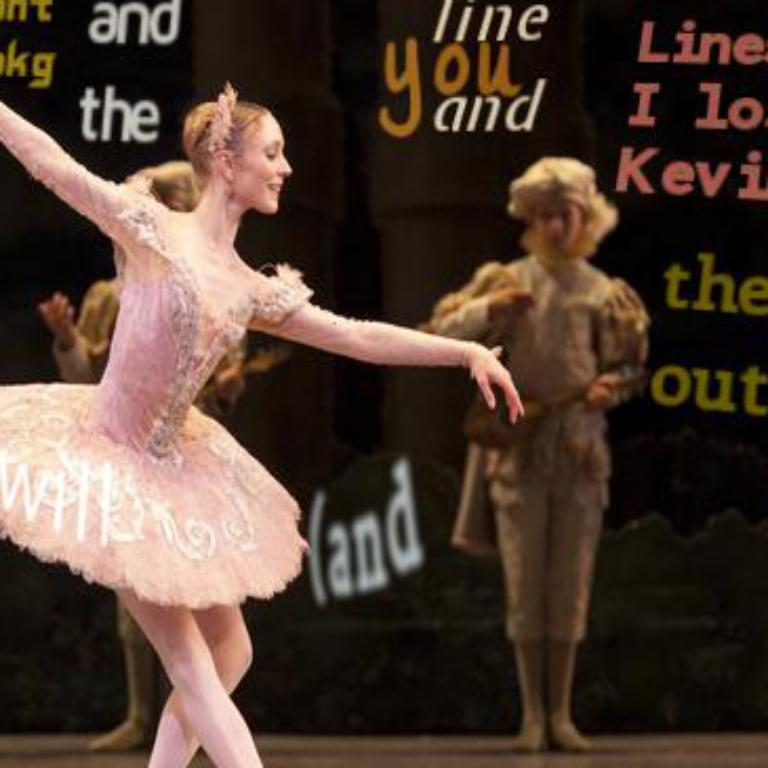
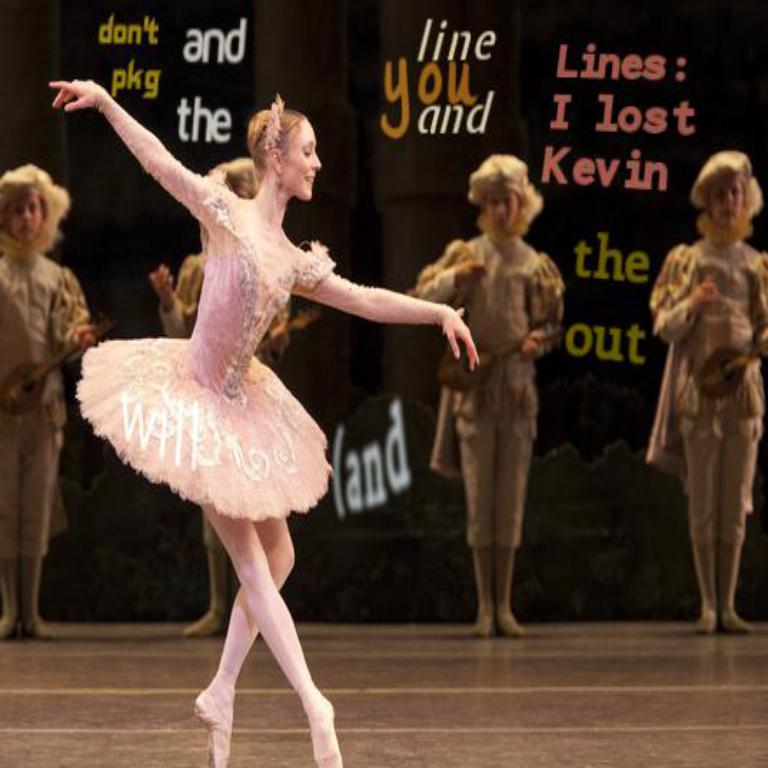
Augmentation

diff --git a/data_loader_sample.py b/data_loader_sample.py
@@ -60,13 +60,19 @@ class ToTensor(object):
 
 class RandomCrop(object): 
 
-    def __init__(self, scale=0.2):
-
+    def __init__(self, scale=0.2, p=0.6):
+        
+        #crop 비율
         self.scale = scale
+        #crop할 확률 
+        self.p =p
 
     def __call__(self, gt): 
 
         image, region_score, affinity_score = gt 
+
+        if random.random() > self.p: 
+            return image, region_score, affinity_score
 
         rand1 = random.random()*self.scale
         rand2 = random.random()*self.scale
@@ -85,13 +91,34 @@ class RandomCrop(object):
 
 class Resize(object): 
 
-    def __init__(self, target_size=768):
+    def __init__(self, target_size=768, padding=False, p=0.3):
 
         self.target_size = target_size
+        self.padding = padding
+        #padding할 확률 
+        self.p = p 
 
-    def __call__(self, gt): 
+    def __call__(self, gt):
 
         image, region_score, affinity_score = gt 
+
+        if random.random() < self.p:
+
+            self.padding = True 
+
+        if self.padding: 
+
+            padding_image = np.zeros((self.target_size, self.target_size, 3), dtype=np.float32)
+            padding_image[ : image.shape[0] ,  : image.shape[1] , : ] = image 
+            image = padding_image
+
+            padding_region = np.zeros((self.target_size, self.target_size), dtype=np.float32)
+            padding_region[:region_score.shape[0], :region_score.shape[1]] = region_score
+            region_score = padding_region
+
+            padding_affinity = np.zeros((self.target_size, self.target_size), dtype=np.float32)
+            padding_affinity[:affinity_score.shape[0], :affinity_score.shape[1]] = affinity_score
+            affinity_score = padding_affinity
 
         image = cv2.resize(image, (self.target_size, self.target_size), cv2.INTER_LINEAR)
 
@@ -99,8 +126,6 @@ class Resize(object):
         affinity_score = cv2.resize(affinity_score, (self.target_size//2, self.target_size//2), cv2.INTER_LINEAR)
 
         return image, region_score, affinity_score
-
-
 
 #Sample Data Set 
 class SampleDataset(Dataset): 
@@ -145,7 +170,7 @@ if __name__ == '__main__':
                                     imnames= '/root/data/SynthText/imnames_sample.npy',
                                     charBB = '/root/data/SynthText/charBB_sample.npy',
                                     aff_charBB='/root/data/SynthText/aff_charBB_sample.npy',
-                                    transform= transforms.Compose([RandomCrop(scale=0.25),Resize()]))
+                                    transform= transforms.Compose([RandomCrop(scale=0.25, p = 0.6),Resize()]))
 
     img, region_score, affinity_score = sample_dataset[0]
 
